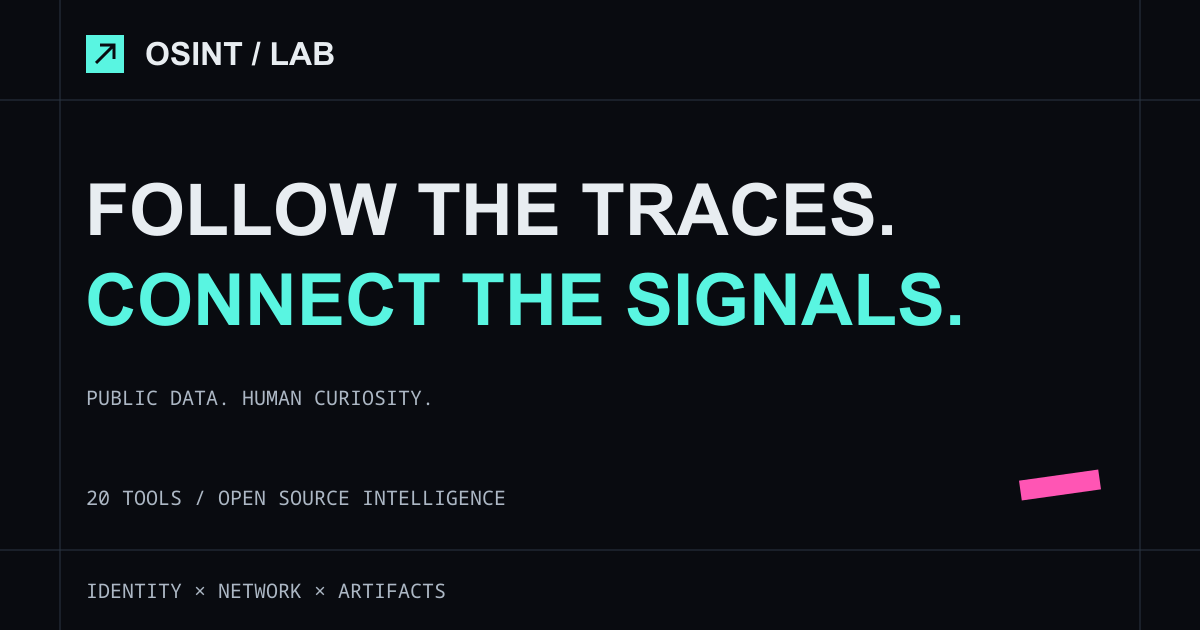
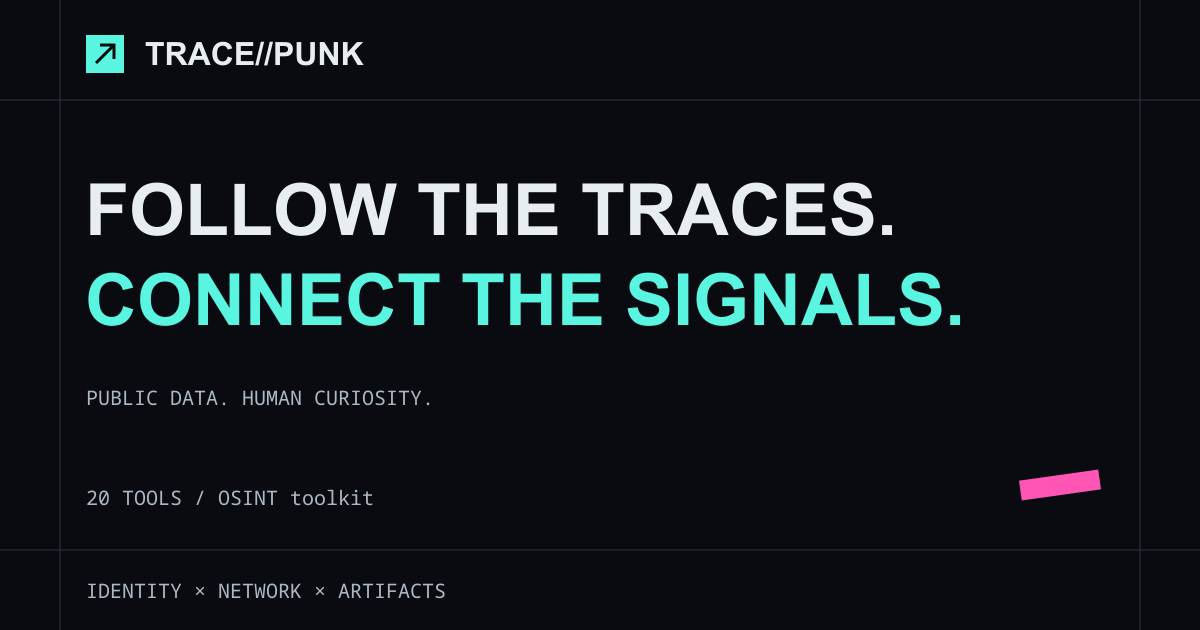
Brand project as TRACEPUNK OSINT toolkit

Changed region(s): [[0.1233, 0.0603, 0.3083, 0.1206], [0.185, 0.754, 0.4317, 0.8143]]

diff --git a/src/lib/i18n/messages/footprint.js b/src/lib/i18n/messages/footprint.js
@@ -29,10 +29,10 @@ export default {
 			'Latest {count} monthly crawls, queried one after the other from your browser. The index server is often slow or overloaded.',
 		'cc.loading': 'Querying crawls… {done}/{total} done.',
 		'wayback.note':
-			'First capture of each URL, through the OSINT / LAB backend (the Wayback CDX API cannot be called from the browser).',
+			'First capture of each URL, through the TRACE//PUNK backend (the Wayback CDX API cannot be called from the browser).',
 		'wayback.loading': 'Querying the Wayback Machine… this can take up to 30 seconds.',
 		'wayback.backendNeeded':
-			'The Wayback Machine section needs the OSINT / LAB API service; Common Crawl works without it. Please try again later.',
+			'The Wayback Machine section needs the TRACE//PUNK API service; Common Crawl works without it. Please try again later.',
 		'stats.title': 'Overview',
 		'stats.total': { one: 'unique archived URL', other: 'unique archived URLs' },
 		'stats.bySource': 'By source',
@@ -126,10 +126,10 @@ export default {
 			"Ultime {count} scansioni mensili, interrogate una dopo l'altra dal tuo browser. Il server dell'indice è spesso lento o sovraccarico.",
 		'cc.loading': 'Interrogazione delle scansioni… {done}/{total} completate.',
 		'wayback.note':
-			'Prima acquisizione di ogni URL, tramite il backend di OSINT / LAB (la CDX API della Wayback Machine non si può chiamare dal browser).',
+			'Prima acquisizione di ogni URL, tramite il backend di TRACE//PUNK (la CDX API della Wayback Machine non si può chiamare dal browser).',
 		'wayback.loading': 'Interrogazione della Wayback Machine… può richiedere fino a 30 secondi.',
 		'wayback.backendNeeded':
-			'La sezione Wayback Machine richiede il servizio API di OSINT / LAB; Common Crawl funziona anche senza. Riprova tra poco.',
+			'La sezione Wayback Machine richiede il servizio API di TRACE//PUNK; Common Crawl funziona anche senza. Riprova tra poco.',
 		'stats.title': 'Panoramica',
 		'stats.total': { one: 'URL archiviato unico', other: 'URL archiviati unici' },
 		'stats.bySource': 'Per fonte',
@@ -223,11 +223,11 @@ export default {
 			"{count} derniers crawls mensuels, interrogés l'un après l'autre depuis votre navigateur. Le serveur d'index est souvent lent ou surchargé.",
 		'cc.loading': 'Interrogation des crawls… {done}/{total} terminés.',
 		'wayback.note':
-			"Première capture de chaque URL, via le backend de OSINT / LAB (l'API CDX de la Wayback Machine ne peut pas être appelée depuis le navigateur).",
+			"Première capture de chaque URL, via le backend de TRACE//PUNK (l'API CDX de la Wayback Machine ne peut pas être appelée depuis le navigateur).",
 		'wayback.loading':
 			"Interrogation de la Wayback Machine… cela peut prendre jusqu'à 30 secondes.",
 		'wayback.backendNeeded':
-			'La section Wayback Machine nécessite le service API de OSINT / LAB ; Common Crawl fonctionne sans. Réessayez plus tard.',
+			'La section Wayback Machine nécessite le service API de TRACE//PUNK ; Common Crawl fonctionne sans. Réessayez plus tard.',
 		'stats.title': 'Vue d’ensemble',
 		'stats.total': { one: 'URL archivée unique', other: 'URL archivées uniques' },
 		'stats.bySource': 'Par source',
@@ -323,10 +323,10 @@ export default {
 			'直近 {count} 回の月次クロールを、ブラウザから順番に照会します。インデックスサーバーは遅いか過負荷になっていることがよくあります。',
 		'cc.loading': 'クロールを照会中… {done}/{total} 完了。',
 		'wayback.note':
-			'各 URL の最初のキャプチャです。OSINT / LAB のバックエンド経由で取得します (Wayback CDX API はブラウザから呼び出せません)。',
+			'各 URL の最初のキャプチャです。TRACE//PUNK のバックエンド経由で取得します (Wayback CDX API はブラウザから呼び出せません)。',
 		'wayback.loading': 'Wayback Machine を照会中… 最大 30 秒かかることがあります。',
 		'wayback.backendNeeded':
-			'Wayback Machine のセクションには OSINT / LAB の API サービスが必要です。Common Crawl はバックエンドなしで動作します。後でもう一度お試しください。',
+			'Wayback Machine のセクションには TRACE//PUNK の API サービスが必要です。Common Crawl はバックエンドなしで動作します。後でもう一度お試しください。',
 		'stats.title': '概要',
 		'stats.total': { other: '件の一意なアーカイブ済み URL' },
 		'stats.bySource': 'ソース別',

diff --git a/src/lib/i18n/messages/favicon.js b/src/lib/i18n/messages/favicon.js
@@ -8,7 +8,7 @@ export default {
 			'Hash a favicon the way internet scanners do and find other servers showing the same icon: phishing kits, hidden origins behind a CDN, admin panels of the same product. The file is hashed in your browser and never uploaded.',
 		fileHeading: 'Favicon file',
 		whyUpload:
-			'OSINT / LAB does not download favicons for you: fetching an arbitrary host would need a proxy open to abuse. Open the favicon in your browser, save it and drop the file here.',
+			'TRACE//PUNK does not download favicons for you: fetching an arbitrary host would need a proxy open to abuse. Open the favicon in your browser, save it and drop the file here.',
 		siteLabel: 'Site (optional)',
 		sitePlaceholder: 'example.com',
 		siteInvalid: 'Enter a domain or an http(s) URL.',
@@ -50,7 +50,7 @@ export default {
 			"Calcola l'hash di una favicon come fanno gli scanner di Internet e trova altri server che mostrano la stessa icona: kit di phishing, origini nascoste dietro una CDN, pannelli di amministrazione dello stesso prodotto. Il file viene elaborato nel tuo browser e non viene mai caricato.",
 		fileHeading: 'File favicon',
 		whyUpload:
-			'OSINT / LAB non scarica le favicon al posto tuo: contattare un host qualsiasi richiederebbe un proxy esposto ad abusi. Apri la favicon nel browser, salvala e trascina qui il file.',
+			'TRACE//PUNK non scarica le favicon al posto tuo: contattare un host qualsiasi richiederebbe un proxy esposto ad abusi. Apri la favicon nel browser, salvala e trascina qui il file.',
 		siteLabel: 'Sito (facoltativo)',
 		sitePlaceholder: 'example.com',
 		siteInvalid: 'Inserisci un dominio o un URL http(s).',
@@ -93,7 +93,7 @@ export default {
 			'Calculez le hash d’une favicon comme le font les scanners d’Internet et trouvez d’autres serveurs affichant la même icône : kits de phishing, origines cachées derrière un CDN, panneaux d’administration du même produit. Le fichier est traité dans votre navigateur et n’est jamais envoyé.',
 		fileHeading: 'Fichier favicon',
 		whyUpload:
-			'OSINT / LAB ne télécharge pas les favicons à votre place : contacter un hôte quelconque nécessiterait un proxy ouvert aux abus. Ouvrez la favicon dans votre navigateur, enregistrez-la et déposez le fichier ici.',
+			'TRACE//PUNK ne télécharge pas les favicons à votre place : contacter un hôte quelconque nécessiterait un proxy ouvert aux abus. Ouvrez la favicon dans votre navigateur, enregistrez-la et déposez le fichier ici.',
 		siteLabel: 'Site (facultatif)',
 		sitePlaceholder: 'example.com',
 		siteInvalid: 'Saisissez un domaine ou une URL http(s).',
@@ -136,7 +136,7 @@ export default {
 			'インターネットスキャナーと同じ方法で favicon をハッシュ化し、同じアイコンを表示している他のサーバーを見つけます: フィッシングキット、CDN の背後に隠れたオリジン、同じ製品の管理画面など。ファイルはブラウザ内でハッシュ化され、アップロードされることはありません。',
 		fileHeading: 'favicon ファイル',
 		whyUpload:
-			'OSINT / LAB は favicon を代わりにダウンロードしません。任意のホストへアクセスするには、悪用される恐れのあるプロキシが必要になるためです。ブラウザで favicon を開いて保存し、そのファイルをここにドロップしてください。',
+			'TRACE//PUNK は favicon を代わりにダウンロードしません。任意のホストへアクセスするには、悪用される恐れのあるプロキシが必要になるためです。ブラウザで favicon を開いて保存し、そのファイルをここにドロップしてください。',
 		siteLabel: 'サイト (任意)',
 		sitePlaceholder: 'example.com',
 		siteInvalid: 'ドメインまたは http(s) の URL を入力してください。',

diff --git a/src/lib/i18n/messages/home.js b/src/lib/i18n/messages/home.js
@@ -1,7 +1,7 @@
 // Modified 2026 by realfulvio; original attribution in NOTICE.
 export default {
 	en: {
-		title: 'OSINT / LAB — Follow the traces',
+		title: 'TRACE//PUNK — OSINT toolkit',
 		metaDescription:
 			'Free OSINT tools: Google dorks, username, email, phone, domain and IP analysis, breach check, metadata extractor, hash checker and more.',
 		intro:
@@ -15,7 +15,7 @@ export default {
 		eyebrow: 'OPEN SOURCES. SHARP QUESTIONS.',
 		headlineA: 'FOLLOW THE TRACES.',
 		headlineB: 'CONNECT THE SIGNALS.',
-		tagline: 'Public data. Clear leads. Your investigation.',
+		tagline: 'OSINT toolkit',
 		browse: 'Explore the tools',
 		searchLabel: 'Find a tool',
 		searchPlaceholder: 'Domain, username, metadata…',
@@ -30,7 +30,7 @@ export default {
 			'Online lookups contact external services. Results depend on their coverage and availability.'
 	},
 	it: {
-		title: 'OSINT / LAB — Segui le tracce',
+		title: 'TRACE//PUNK — OSINT toolkit',
 		metaDescription:
 			'Strumenti OSINT gratuiti: Google dork, analisi di username, email, telefono, dominio e IP, controllo dei data breach, estrattore di metadati, verifica hash e altro.',
 		intro:
@@ -44,7 +44,7 @@ export default {
 		eyebrow: 'FONTI APERTE. DOMANDE PRECISE.',
 		headlineA: 'SEGUI LE TRACCE.',
 		headlineB: 'COLLEGA I SEGNALI.',
-		tagline: 'Dati pubblici. Piste concrete. La tua indagine.',
+		tagline: 'OSINT toolkit',
 		browse: 'Esplora gli strumenti',
 		searchLabel: 'Trova uno strumento',
 		searchPlaceholder: 'Dominio, username, metadati…',
@@ -59,7 +59,7 @@ export default {
 			'Le ricerche online contattano servizi esterni. I risultati dipendono dalla loro copertura e disponibilità.'
 	},
 	fr: {
-		title: 'OSINT / LAB — Suivez les traces',
+		title: 'TRACE//PUNK — OSINT toolkit',
 		metaDescription:
 			"Outils OSINT gratuits : Google dorks, analyse de nom d'utilisateur, e-mail, téléphone, domaine et IP, vérification de fuites de données, extracteur de métadonnées, vérificateur de hash et plus.",
 		intro:
@@ -73,7 +73,7 @@ export default {
 		eyebrow: 'SOURCES OUVERTES. QUESTIONS PRÉCISES.',
 		headlineA: 'SUIVEZ LES TRACES.',
 		headlineB: 'RELIEZ LES SIGNAUX.',
-		tagline: 'Données publiques. Pistes concrètes. Votre enquête.',
+		tagline: 'OSINT toolkit',
 		browse: 'Explorer les outils',
 		searchLabel: 'Trouver un outil',
 		searchPlaceholder: 'Domaine, pseudonyme, métadonnées…',
@@ -88,7 +88,7 @@ export default {
 			'Les recherches en ligne contactent des services externes. Les résultats dépendent de leur couverture et de leur disponibilité.'
 	},
 	ja: {
-		title: 'OSINT / LAB — 痕跡をたどる',
+		title: 'TRACE//PUNK — OSINT toolkit',
 		metaDescription:
 			'無料の OSINT ツール: Google dork、ユーザー名・メールアドレス・電話番号・ドメイン・IP の分析、データ漏えいチェック、メタデータ抽出、ハッシュチェッカーなど。',
 		intro:
@@ -101,7 +101,7 @@ export default {
 		eyebrow: '公開情報から、確かな問いへ。',
 		headlineA: '痕跡をたどる。',
 		headlineB: '手がかりをつなぐ。',
-		tagline: '公開データ。具体的な手がかり。あなたの調査。',
+		tagline: 'OSINT toolkit',
 		browse: 'ツールを探す',
 		searchLabel: 'ツールを検索',
 		searchPlaceholder: 'ドメイン、ユーザー名、メタデータ…',

diff --git a/src/lib/i18n/messages/username.js b/src/lib/i18n/messages/username.js
@@ -5,7 +5,7 @@ export default {
 		metaDescription:
 			'Check whether a username exists on hundreds of websites and social networks, using the WhatsMyName site list.',
 		description:
-			'Check whether a username is registered on hundreds of websites, social networks and forums. Each site is checked by the OSINT / LAB backend using the WhatsMyName detection rules.',
+			'Check whether a username is registered on hundreds of websites, social networks and forums. Each site is checked by the TRACE//PUNK backend using the WhatsMyName detection rules.',
 		heading: 'Username',
 		inputLabel: 'Username',
 		placeholder: 'e.g. torvalds',
@@ -71,7 +71,7 @@ export default {
 		metaDescription:
 			'Controlla se uno username esiste su centinaia di siti web e social network, usando la lista di siti WhatsMyName.',
 		description:
-			'Controlla se uno username è registrato su centinaia di siti web, social network e forum. Ogni sito viene controllato dal backend di OSINT / LAB con le regole di rilevamento di WhatsMyName.',
+			'Controlla se uno username è registrato su centinaia di siti web, social network e forum. Ogni sito viene controllato dal backend di TRACE//PUNK con le regole di rilevamento di WhatsMyName.',
 		heading: 'Username',
 		inputLabel: 'Username',
 		placeholder: 'es. torvalds',
@@ -141,7 +141,7 @@ export default {
 		metaDescription:
 			"Vérifiez si un nom d'utilisateur existe sur des centaines de sites web et réseaux sociaux, à l'aide de la liste de sites WhatsMyName.",
 		description:
-			"Vérifiez si un nom d'utilisateur est enregistré sur des centaines de sites web, réseaux sociaux et forums. Chaque site est vérifié par le backend OSINT / LAB avec les règles de détection de WhatsMyName.",
+			"Vérifiez si un nom d'utilisateur est enregistré sur des centaines de sites web, réseaux sociaux et forums. Chaque site est vérifié par le backend TRACE//PUNK avec les règles de détection de WhatsMyName.",
 		heading: "Nom d'utilisateur",
 		inputLabel: "Nom d'utilisateur",
 		placeholder: 'ex. torvalds',
@@ -212,7 +212,7 @@ export default {
 		metaDescription:
 			'WhatsMyName のサイト一覧を使い、数百の Web サイトや SNS にユーザー名が存在するかを確認します。',
 		description:
-			'数百の Web サイト、SNS、フォーラムにユーザー名が登録されているかを確認します。各サイトは WhatsMyName の検出ルールに従って OSINT / LAB のバックエンドが確認します。',
+			'数百の Web サイト、SNS、フォーラムにユーザー名が登録されているかを確認します。各サイトは WhatsMyName の検出ルールに従って TRACE//PUNK のバックエンドが確認します。',
 		heading: 'ユーザー名',
 		inputLabel: 'ユーザー名',
 		placeholder: '例: torvalds',

diff --git a/src/lib/i18n/messages/common.js b/src/lib/i18n/messages/common.js
@@ -4,7 +4,7 @@ export default {
 	en: {
 		// Sentence-final full stop, for text joined around markup.
 		period: '.',
-		ogImageAlt: 'OSINT / LAB: free OSINT tools in your browser',
+		ogImageAlt: 'TRACE//PUNK: free OSINT tools in your browser',
 		yes: 'yes',
 		no: 'no',
 		unknown: 'Unknown',
@@ -29,7 +29,7 @@ export default {
 	it: {
 		// Sentence-final full stop, for text joined around markup.
 		period: '.',
-		ogImageAlt: 'OSINT / LAB: strumenti OSINT gratuiti nel browser',
+		ogImageAlt: 'TRACE//PUNK: strumenti OSINT gratuiti nel browser',
 		yes: 'sì',
 		no: 'no',
 		unknown: 'Sconosciuto',
@@ -55,7 +55,7 @@ export default {
 	fr: {
 		// Sentence-final full stop, for text joined around markup.
 		period: '.',
-		ogImageAlt: 'OSINT / LAB : outils OSINT gratuits dans votre navigateur',
+		ogImageAlt: 'TRACE//PUNK : outils OSINT gratuits dans votre navigateur',
 		yes: 'oui',
 		no: 'non',
 		unknown: 'Inconnu',
@@ -81,7 +81,7 @@ export default {
 	ja: {
 		// Sentence-final full stop, for text joined around markup.
 		period: '。',
-		ogImageAlt: 'OSINT / LAB: ブラウザで使える無料の OSINT ツール',
+		ogImageAlt: 'TRACE//PUNK: ブラウザで使える無料の OSINT ツール',
 		yes: 'はい',
 		no: 'いいえ',
 		unknown: '不明',

diff --git a/src/lib/i18n/messages/backend.js b/src/lib/i18n/messages/backend.js
@@ -3,22 +3,22 @@
 export default {
 	en: {
 		down: 'Backend not running.',
-		needed: 'This tool needs the OSINT / LAB API service. Please try again later.',
+		needed: 'This tool needs the TRACE//PUNK API service. Please try again later.',
 		retry: 'Retry'
 	},
 	it: {
 		down: 'Backend non avviato.',
-		needed: 'Questo strumento richiede il servizio API di OSINT / LAB. Riprova tra poco.',
+		needed: 'Questo strumento richiede il servizio API di TRACE//PUNK. Riprova tra poco.',
 		retry: 'Riprova'
 	},
 	fr: {
 		down: 'Backend non démarré.',
-		needed: 'Cet outil nécessite le service API de OSINT / LAB. Réessayez plus tard.',
+		needed: 'Cet outil nécessite le service API de TRACE//PUNK. Réessayez plus tard.',
 		retry: 'Réessayer'
 	},
 	ja: {
 		down: 'バックエンドが起動していません。',
-		needed: 'このツールには OSINT / LAB の API サービスが必要です。後でもう一度お試しください。',
+		needed: 'このツールには TRACE//PUNK の API サービスが必要です。後でもう一度お試しください。',
 		retry: '再試行'
 	}
 };

diff --git a/src/lib/components/Footer.svelte b/src/lib/components/Footer.svelte
@@ -11,14 +11,14 @@
 			<p>{t('nav.footerAbout')}</p>
 		</div>
 		<div class="credits">
-			<a href="https://github.com/realfulvio/FreeOSINTUI" target="_blank" rel="noopener noreferrer"
+			<a href="https://github.com/realfulvio/tracepunk" target="_blank" rel="noopener noreferrer"
 				>GitHub ↗</a
 			>
 			<p>
 				Based on <a href="https://github.com/Kerlooo/FreeOSINTUI">FreeOSINT-UI / kerlo</a><br />{t(
 					'nav.inspiredBy'
 				)} <a href="https://osint-ui.com/">OSINT-UI</a> ·
-				<a href="https://github.com/realfulvio/FreeOSINTUI/blob/main/.github/LICENSE"
+				<a href="https://github.com/realfulvio/tracepunk/blob/main/.github/LICENSE"
 					>License &amp; credits</a
 				>
 			</p>

diff --git a/src/lib/export/files.js b/src/lib/export/files.js
@@ -33,7 +33,7 @@ export function findFormat(id) {
 }
 
 /**
- * Safe file name such as `freeosintui-ip-8.8.8.8-20261003-1952.pdf`.
+ * Safe file name such as `tracepunk-ip-8.8.8.8-20261003-1952.pdf`.
  * @param {Report} report
  * @param {string} extension
  */
@@ -44,7 +44,7 @@ export function reportFilename(report, extension) {
 		.replace(/^[-.]+|[-.]+$/g, '')
 		.slice(0, 60);
 	const stamp = report.generatedAt.slice(0, 16).replace(/-|:/g, '').replace('T', '-');
-	return ['freeosintui', report.tool, slug, stamp].filter(Boolean).join('-') + `.${extension}`;
+	return ['tracepunk', report.tool, slug, stamp].filter(Boolean).join('-') + `.${extension}`;
 }
 
 /**

diff --git a/src/lib/export/export.spec.js b/src/lib/export/export.spec.js
@@ -140,10 +140,10 @@ describe('files', () => {
 
 	it('builds a safe file name with tool, input and minute', () => {
 		expect(reportFilename(report, 'md')).toBe(
-			'freeosintui-url-https-ex.com-a-b-c-1-20261003-1952.md'
+			'tracepunk-url-https-ex.com-a-b-c-1-20261003-1952.md'
 		);
 		const blank = createReport({ tool: 'hash', input: '', now, sections: [] });
-		expect(reportFilename(blank, 'json')).toBe('freeosintui-hash-20261003-1952.json');
+		expect(reportFilename(blank, 'json')).toBe('tracepunk-hash-20261003-1952.json');
 	});
 
 	it('serializes the report as JSON', () => {

diff --git a/src/routes/phone/+page.svelte b/src/routes/phone/+page.svelte
@@ -25,7 +25,7 @@
 	const buildReport = () => buildPhoneReport({ input, result: result });
 </script>
 
-<PageMeta title="{t('tools.phone.name')} — OSINT / LAB" description={t('phone.metaDescription')} />
+<PageMeta title="{t('tools.phone.name')} — TRACE//PUNK" description={t('phone.metaDescription')} />
 
 <ToolHeader title={t('tools.phone.name')} description={t('phone.description')} />
 

diff --git a/src/routes/url/+page.svelte b/src/routes/url/+page.svelte
@@ -111,7 +111,7 @@
 	const isEmptyList = (list) => !list?.length;
 </script>
 
-<PageMeta title="{t('tools.url.name')} — OSINT / LAB" description={t('url.metaDescription')} />
+<PageMeta title="{t('tools.url.name')} — TRACE//PUNK" description={t('url.metaDescription')} />
 
 <ToolHeader title={t('tools.url.name')} description={t('url.description')} />
 

diff --git a/src/lib/site.js b/src/lib/site.js
@@ -6,7 +6,7 @@ export const SITE_URL = (import.meta.env.VITE_SITE_URL || 'http://localhost:8787
 );
 
 // Working display name; final project name has not been selected.
-export const SITE_NAME = 'OSINT / LAB';
+export const SITE_NAME = 'TRACE//PUNK';
 
 /**
  * Absolute URL of a site path, without a trailing slash except for the home page.
